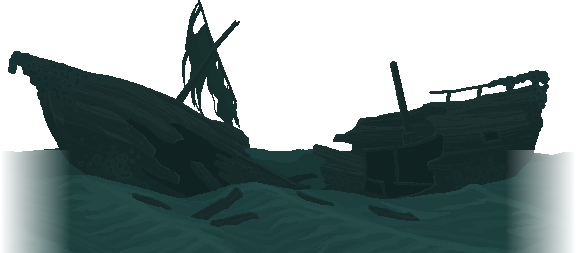
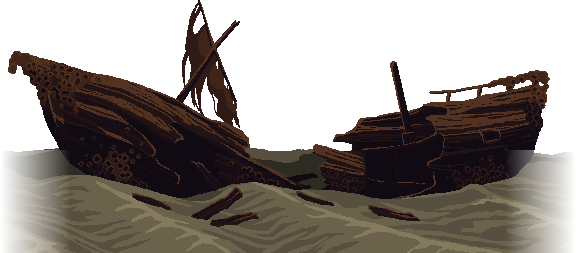
Waiting room starts smoothly (wand cursor turns made ahead), wooden wrecks, sky pages rise fast and come round, thunderclouds sting

diff --git a/tools/prepare_ocean_art.py b/tools/prepare_ocean_art.py
@@ -8,12 +8,38 @@
   Ship Pixel Background" (OGA-BY 3.0, opengameart.org/content/wrecked-and-sunken-ship-pixel-background), cut to the
   ship, with the sand fading out at both sides so it lies on any floor.
 
-Both are bright and blue as they come: they are greyed a little, darkened and turned toward the sea's teal, so they
-sit in the dark with the rest of the game. Nothing is drawn here: every pixel is the packs' own.
+The layers are bright and blue as they come: they are greyed a little, darkened and turned toward the sea's teal, so they
+sit in the dark with the rest of the game. The ship is all greens: its hull is given the colours of the driftwood (the town pack's
+planks as the game tints them, carried a little lighter so the planks and holes still show) and its bank of sand the sea floor's
+sand (tools/prepare_earth.py), each shade by its brightness, so it reads as a solid thing in the water and not as scenery (owner,
+2026-11-12). Nothing is drawn here: every pixel is the packs' own, in other colours.
 """
 import os
 import sys
 from PIL import Image
+
+
+WOOD = [(16, 10, 18), (24, 13, 21), (34, 19, 20), (48, 26, 21), (64, 36, 26), (84, 50, 34)]  # dark to light: the driftwood's, and two steps past it
+SAND = [(46, 43, 34), (67, 62, 48), (87, 80, 64), (107, 98, 76), (133, 122, 94)]  # the sea floor's sand ramp
+SAND_GREEN = 140  # in the pack's picture, the bank's greens are at least this green, and the hull's are less
+
+
+def recolour_ship(im: Image.Image) -> Image.Image:
+    """Each of the picture's colours goes to the shade of wood or sand that is as far up its own ramp as it is up the picture's."""
+    px = im.load()
+    colours = sorted({px[x, y][:3] for y in range(im.size[1]) for x in range(im.size[0]) if px[x, y][3] > 0}, key=lambda c: c[0] * 0.3 + c[1] * 0.59 + c[2] * 0.11)
+    mapping = {}
+    for group, ramp in [([c for c in colours if c[1] < SAND_GREEN], WOOD), ([c for c in colours if c[1] >= SAND_GREEN], SAND)]:
+        for k, c in enumerate(group):
+            mapping[c] = ramp[min(len(ramp) - 1, k * len(ramp) // max(len(group), 1))]
+    out = im.copy()
+    po = out.load()
+    for y in range(im.size[1]):
+        for x in range(im.size[0]):
+            p = px[x, y]
+            if p[3] > 0:
+                po[x, y] = mapping[p[:3]] + (p[3],)
+    return out
 
 
 SAND_TOP = 150  # rows of the cut picture above the sand bank
@@ -39,7 +65,7 @@ def main() -> None:
         print("wrote", name)
     ship = Image.open(os.path.join(ship_dir, "3_145.png")).convert("RGBA")
     ship = ship.crop(ship.getbbox())
-    ship = darken(ship, 0.55, (0.72, 0.85, 0.95))
+    ship = recolour_ship(ship)
     px = ship.load()
     fade = 70
     for y in range(SAND_TOP, ship.size[1]):  # only the sand fades: the bow of the near half reaches the edge above it

diff --git a/CLAUDE.md b/CLAUDE.md
@@ -293,7 +293,7 @@ spells you do, drawing them visibly. There are no waves and no boss (see `docs/p
   - **Living scenery** (`World._raise_biome_life`, `docs/handoff/02_codebase_map.md`): the graveyard has low mist (`MistBank`), bats (`CritterFlock`) and crypts (`Crypt`, each with a page and a skeleton guard); the jungle has rope bridges between neighbouring great trees (`CanopyBridge`), light shafts, fireflies, swaying vines, birds that burst away and downpours (`Squall`); the peaks have avalanches (`Avalanche`), sheets of ice that make a wizard slide (`IceSheet`) and an aurora; the ashlands have lava lakes that swell (`LavaSurge`), ash storms with falling embers (`EmberRain`) and volcanoes that rumble and shake the world, send up a plume of smoke (`SmokePlume`: no one sees through more than a little of it; on a person's own screen `SmokeVeil` hides what lies past it behind a paler haze, so the dark column and the haze are told apart) and pour lava over the rim that cools to a crust and goes (`Eruption`); the underground has glowing crystals, drips, stalactites that fall on whoever walks under (`FallingRock`) and cave-ins (`CaveLife`). Storms, avalanches, swells and cave-ins follow the world's age, so every machine of a match sees them at the same time. Run `tests/showcase.tscn -- scenario=life` with `WORLD_SEED` (0 jungle, 1 graveyard, 4 mountains, 5 ashlands, 13 underground).
   - the portal fields (`portals`, "The Portal Fields": a level, quiet world where portals open every few seconds and carry a wizard to another; `docs/handoff/13_portal_world.md`). It is the seventh biome, as much a biome as the others.
   - the ocean (`ocean`, "The Drowned Sea", `docs/handoff/20_ocean_world_plan.md`): a sea over the whole world, mostly under water with very few islands, rafts of driftwood to start on, sunken ships with air pockets and a page, kelp; a wizard swims and holds its breath. Never a match's first world.
-  - the sky (`sky`, "The Open Sky", `docs/handoff/19_sky_world_plan.md`): no ground, every wizard flies (`Wizard.flying`, rival brains are `SkyBrain`), pages drift and can be lost (`FallingPage`), clouds rise past and thunderclouds strike (`SkyCloud`). Never a match's first world, and also one of the last world's choices.
+  - the sky (`sky`, "The Open Sky", `docs/handoff/19_sky_world_plan.md`): no ground, every wizard flies (`Wizard.flying`, rival brains are `SkyBrain`), pages rise past the falling wizards and come round again from below (`FallingPage`), clouds rise past and thunderclouds sting and strike (`SkyCloud`). Never a match's first world, and also one of the last world's choices.
   - There are nine biomes (`SurfaceGen.BIOMES`). A match has four worlds, so it visits four of the nine: each of the first three is one of them, in an order the seed picks (the ocean and the sky are dealt in after the first world), and the last, small world is all open sky, one of the five in `SurfaceGen.OPEN_BIOMES` (graveyard, peaks, jungle, ashlands, portal fields) that the match has not been in.
   - **Each biome has landmarks of its own, not just a reskin; only the underground has tunnels.** The graveyard is dark with rain and fog, and its skeletons roam
     (`Mob.roams`). The ashlands have volcanoes that erupt now and then (`Eruption`) and pits of lava. The snowy peaks are mountains to climb (`MountainGale`: wind that grows toward the summits and pushes a wizard without the run animation, seen as streaks; `SnowCloud`: clouds that drift past in front of whoever is in them), with a page on each
@@ -391,8 +391,10 @@ GODOT="/c/Users/Jordan Polun/Downloads/Godot_v4.7.2-stable_win64.exe/Godot_v4.7.
 "$GODOT" --path . tests/marks_look.tscn -- out=DIR             # pictures of the Hex, Fight or Flight and Moonbeam marks (needs a window)
 "$GODOT" --path . tests/minimap_check.tscn  # the minimap stays in the top right corner as the window is resized
 "$GODOT" --headless --fixed-fps 60 --path . tests/ocean_world_check.tscn  # the sea over the world in lengths, wrecks with air pockets, driftwood and kelp, a wizard out of its depth swims and loses breath
+"$GODOT" --path . tests/lab_lag_check.tscn [-- wait=S off=Class|autoload:Name|draw]  # every slow frame of the first seconds of the waiting room, with what was switched off (needs a window)
+"$GODOT" --headless -s tools/bake_wand_cursor.gd  # remakes art/ui/wand_turns.png, every turn of the wand cursor, after the wand or its code changes
 "$GODOT" --path . tests/ocean_look.tscn -- out=DIR  # pictures of the ocean from the player's own view: the raft, the surface over a wreck, the wrecks on the floor (needs a window)
-"$GODOT" --headless --fixed-fps 60 --path . tests/sky_world_check.tscn  # everyone flies and drifts down, pages drift and are lost, clouds rise, thunderclouds are dangers, spells that need ground are refused
+"$GODOT" --headless --fixed-fps 60 --path . tests/sky_world_check.tscn  # everyone flies and drifts down, pages rise and come round from below, clouds rise, thunderclouds sting and strike, spells that need ground are refused
 "$GODOT" --headless --fixed-fps 60 --path . tests/eruption_check.tscn -- seed=5  # an ashlands volcano erupts: a smoke plume, lava over the rim that cools and goes (add `out=DIR` for pictures, needs a window)
 "$GODOT" --headless --fixed-fps 60 --path . tests/stalagmite_check.tscn  # a Stalagmite rises from the ground under the tip of a drawn peak (add `-- out=DIR` for a picture, needs a window)
 "$GODOT" --headless --fixed-fps 60 --path . tests/sinkhole_biomes_check.tscn -- seeds=0,1,2,4,5,9,13  # a drawn U digs a pit of its shape in every kind of ground, the castle's slab floors too (add `out=DIR` for pictures, needs a window)

diff --git a/docs/handoff/19_sky_world_plan.md b/docs/handoff/19_sky_world_plan.md
@@ -70,12 +70,13 @@ Check: `tests/sky_world_check.tscn`. The world is `sky` (`SurfaceGen.OPEN_BIOMES
 - **Flying** is in `Wizard` (`flying`, `fly_box`, `_fly`): A/D and W/S steer (`FLY_SPEED`), nothing pressed drifts down at `FLY_DRIFT` (30 px/s); the edge of
   `fly_box` stops a wizard. The learned (trained) brain is not used here: `SkyBrain` (`scripts/sky_brain.gd`) is the scripted brain with its legs changed: it flies
   straight at a page it has seen, at a rival it hunts, or to look at somewhere new, round thunderclouds, and it still reads, defends and casts as the brain does.
-- **Pages** are `FallingPage` (`PagePickup`'s child): position from `home + rate * world age`, so every machine agrees; `rate` is -19 to -6 px/s: every page rises, as a sheet of paper falls slower than a person, so among wizards who drift down it is left
-  above them, and it swings from side to side (`SWAY`, 46 px) and tips as it goes, as paper does (owner, 2026-11-12: the pages seemed to fall with the wizards); a page that leaves
-  `box` fades and is gone. `World._lay_sky_pages` places them to last at least two minutes. A wizard's first pages (the cluster) hang by their place and do not drift.
+- **Pages** are `FallingPage` (`PagePickup`'s child): position from `home + rate * world age`, so every machine agrees; `rate` is -140 to -70 px/s: every page rises, as a sheet of paper falls slower than a person, so among wizards who drift down it is left
+  above them, and it swings from side to side (`SWAY`, 46 px) and tips as it goes, as paper does (owner, 2026-11-12: the pages seemed to fall with the wizards, then rose
+  too slowly). One that rises out of the top comes back in at the bottom, `ROOM` (400 px) past each end of `box`, out of sight; no page is lost (owner, 2026-11-12). A wizard's first pages (the cluster) hang by their place and do not drift.
   Reading one needs the wizard within `FallingPage.TOUCH` (80 px).
 - **Clouds** are `SkyCloud` (one plain cloud to every 450 px of width, at least 8, and a thundercloud to every 2000, at least 3; owner, 2026-11-12: more of them): plain ones rise past and hide (a `sight_blockers` member, so the brains see them as cover); thunderclouds warn with a flash
-  and sparks, then shock whoever is inside and strike whoever is under the bolt. Everything is placed from the world's age (the `_timed` list), so no network traffic.
+  and sparks, then shock whoever is inside and strike whoever is under the bolt; between bolts the inside stings each second (`CRACKLE`, 4; owner, 2026-11-12: sitting in one
+  did nothing they could feel), but not in the second before a bolt, whose shock a sting would otherwise swallow (a wizard is spared hits for half a second after one). Everything is placed from the world's age (the `_timed` list), so no network traffic.
 - **Spells** that need ground are refused with "No ground" (`SpellLimits`, which the brain also asks); Updraft, Featherfall and Rocket Jump say "No need".
 - **Seeds:** the ocean and the sky are dealt in after the first world, never first (`MatchState.biome_of`), so every seed keeps its first world. The sky is also in the
   last world's draw (`OPEN_BIOMES`).

diff --git a/docs/handoff/20_ocean_world_plan.md b/docs/handoff/20_ocean_world_plan.md
@@ -75,7 +75,8 @@ spawn tiles stay on the sea floor below, which is what the wizards' map of the w
   map of ways, made for legs: following it, wizards bobbed at the top and drowned at the world's edge), a stroke at a person's pace, and up for air when its
   breath would only just last the way: straight up, or to open water to one side, or to an air pocket.
 - **Breath** is the only pressure: nothing else is added. A `Wreck` has an `AirPocket` (150 by 110 px) where the sea does not reach, and a page lies in each wreck.
-- **Driftwood** (`Driftwood`) is a one-way platform at the waterline; **kelp** (`KelpPatch`) slows and hides (a `sight_blockers` member); a wreck is CraftPix's sunken galleon (`art/props/shipwreck.png`), cut to the open water (`Wreck.clip`) so the floor hides its buried sand. It is a thing in the
+- **Driftwood** (`Driftwood`) is a one-way platform at the waterline; **kelp** (`KelpPatch`) slows and hides (a `sight_blockers` member); a wreck is CraftPix's sunken galleon (`art/props/shipwreck.png`, its hull in the driftwood's dark browns and its bank in the floor's sand, so it reads as a
+  solid thing and not scenery: owner, 2026-11-12), cut to the open water (`Wreck.clip`) so the floor hides its buried sand. It is a thing in the
   water (owner, 2026-11-12): the bow's hull is solid and its slanting side stood on (`Wreck.BOW`), the stern's deck is a one-way platform (`DECK`), its high back is
   solid (`STERN`), and the air pocket is in the hold under the deck (`HOLD`). The hulls go straight down into the floor: a wedge of water under an overhanging hull
   caught swimmers, who drowned. For the brain: an air pocket counts only when the way to it is clear (`_nearest_air`), a swimmer goes across under a hull before
